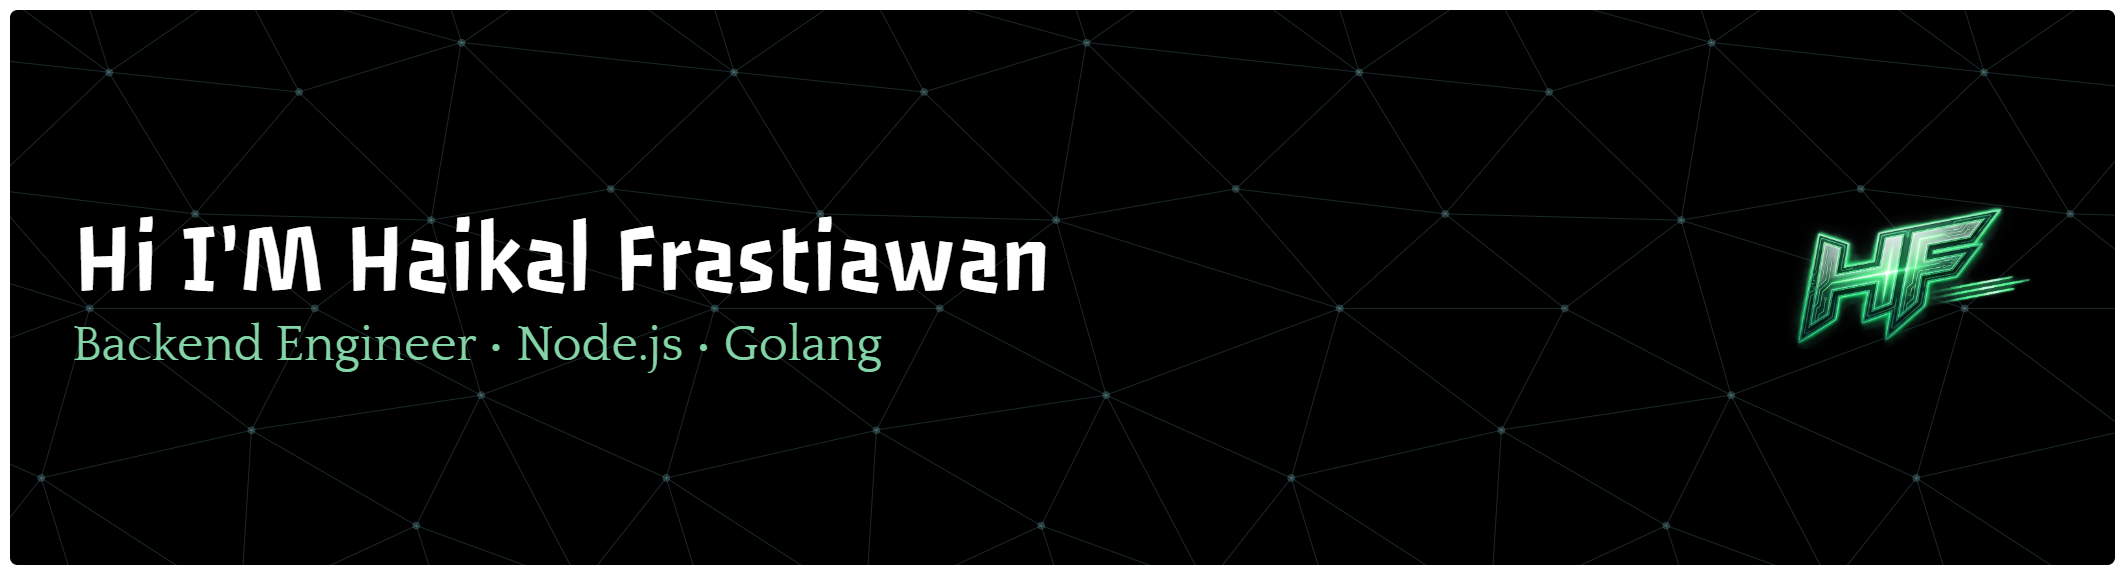
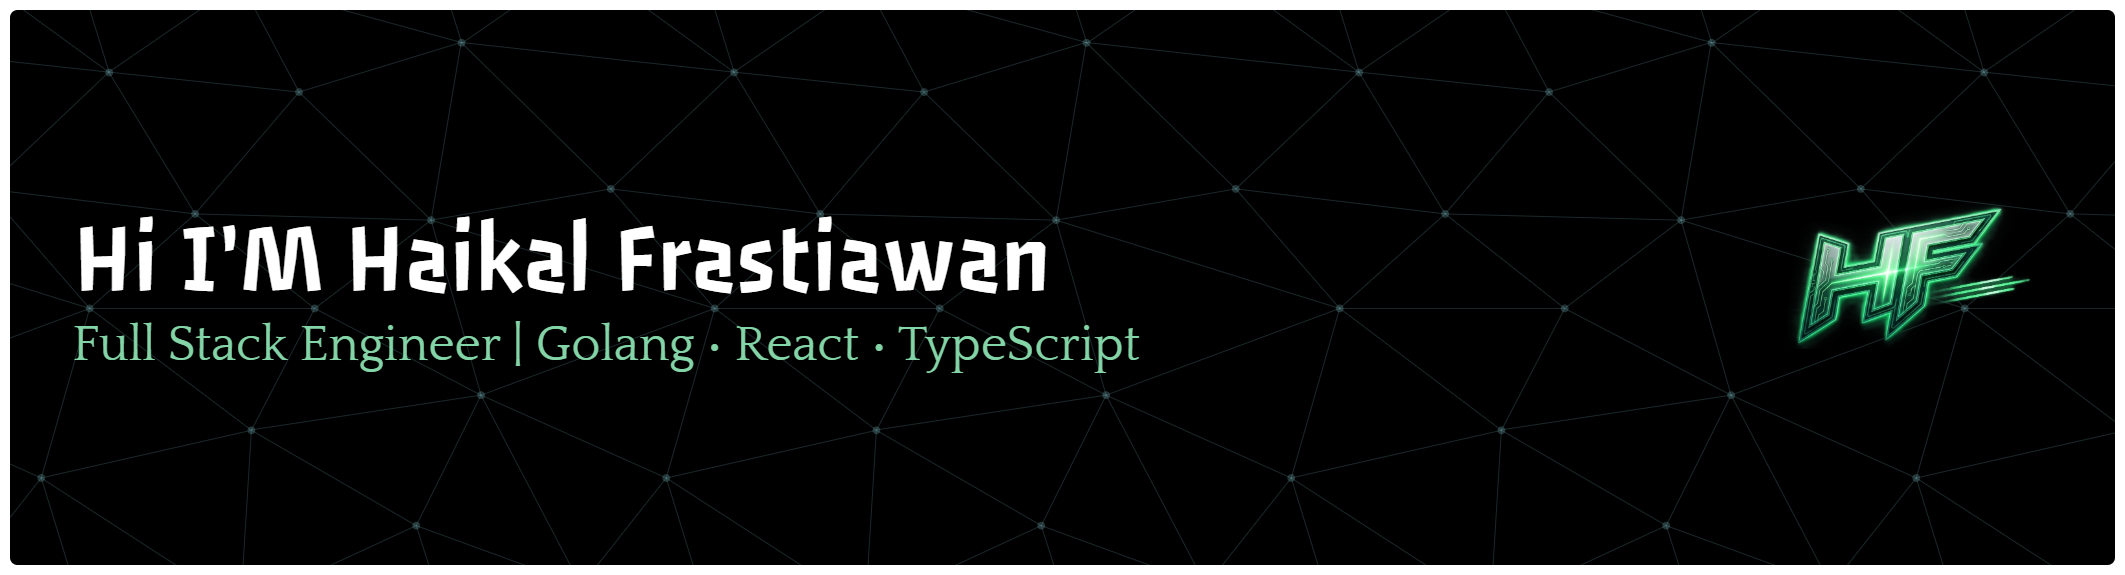
add

Changed region(s): [[0.0311, 0.5617, 0.528, 0.6504]]

diff --git a/README.md b/README.md
@@ -1,16 +1,23 @@
 <p align="center">
-  <img src="/HaikalFrastiawan/img/Banner.png" width="100%" />
+  <img src="https://raw.githubusercontent.com/HaikalFrastiawan/HaikalFrastiawan/main/img/Banner.png" width="100%" onerror="this.src='https://via.placeholder.com/800x200?text=Haikal+Frastiawan+Design'"/>
 </p>
 
 <div align="center">
 
 # 👨💻 Haikal Frastiawan
-**Backend Engineer | Clean Architecture Enthusiast**
-*Building robust, decoupled, and testable systems.*
+<div align="center">
 
-<a href="https://haikal-portfolio-one.vercel.app/"><img src="https://img.shields.io/badge/Portfolio-00d166?style=for-the-badge&logo=google-chrome&logoColor=white" /></a> <a href="mailto:haikalfrastiawan16@gmail.com"><img src="https://img.shields.io/badge/Email-D14836?style=for-the-badge&logo=gmail&logoColor=white" /></a> <a href="https://linkedin.com/in/haikal-frastiawan-5b8287277/"><img src="https://img.shields.io/badge/LinkedIn-0077B5?style=for-the-badge&logo=linkedin&logoColor=white" /></a>
+<a href="https://haikal-portfolio-one.vercel.app/"><img src="https://img.shields.io/badge/Portfolio-00d166?style=for-the-badge&logo=googlechrome&logoColor=white" /></a> <a href="mailto:haikalfrastiawan16@gmail.com"><img src="https://img.shields.io/badge/Email-D14836?style=for-the-badge&logo=gmail&logoColor=white" /></a> <a href="https://linkedin.com/in/haikal-frastiawan-5b8287277/"><img src="https://img.shields.io/badge/LinkedIn-0077B5?style=for-the-badge&logo=linkedin&logoColor=white" /></a> <a href="https://instagram.com/haikalfrastiawan"><img src="https://img.shields.io/badge/Instagram-E4405F?style=for-the-badge&logo=instagram&logoColor=white" /></a>
 
 </div>
+
+
+**Full Stack Engineer | Clean Architecture Enthusiast**
+*Bridging the gap between complex backend logic and seamless frontend experiences.*
+
+"I don't just build features; I build scalable systems with clean, maintainable code."
+</div>
+
 
 ---
 
@@ -19,7 +26,7 @@
 <div align="center">
 
 **Languages & Frameworks** <br/>
-<img src="https://skillicons.dev/icons?i=go,nodejs,ts,js,react,nextjs,php" />
+<img src="https://skillicons.dev/icons?i=go,nodejs,ts,nest,js,react,nextjs," />
 
 <br/>
 
